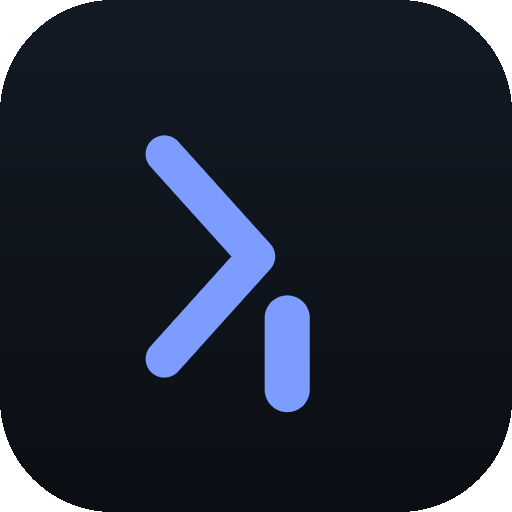
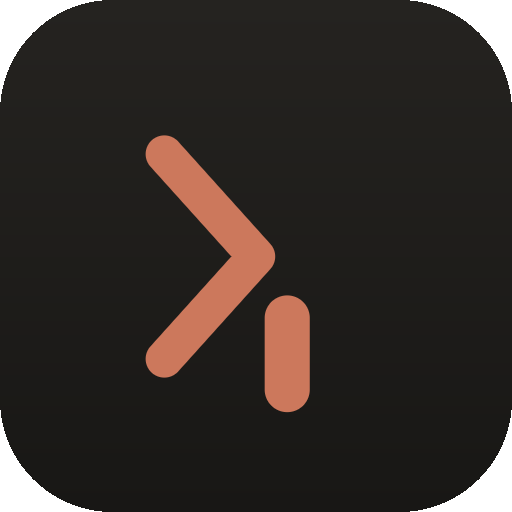
Complete Escanor cream/coral redesign of web UI
Finish restyling Composer and Message components to the design.md tokens,
and regenerate the PWA icons with a coral mark on dark-ink chrome.

Changed region(s): [[0.2812, 0.25, 0.5625, 0.75], [0.5, 0.5625, 0.625, 0.8125]]

diff --git a/packages/web/src/components/Message.tsx b/packages/web/src/components/Message.tsx
@@ -18,16 +18,16 @@ function summarizeTool(name: string, input: Record<string, unknown>): string {
 function ToolUseCard({ block }: { block: Block }) {
   const [open, setOpen] = useState(false);
   return (
-    <div className="my-1.5 overflow-hidden rounded-xl border border-white/8 bg-base-800/60">
+    <div className="my-1.5 overflow-hidden rounded-lg bg-surface-dark">
       <button onClick={() => setOpen((o) => !o)} className="flex w-full items-center gap-2 px-3 py-2 text-left">
-        <span className="rounded-md bg-accent/15 px-1.5 py-0.5 font-mono text-[11px] font-medium text-accent">{block.name}</span>
-        <span className="flex-1 truncate font-mono text-[12px] text-white/50">{summarizeTool(block.name, block.input)}</span>
-        <svg className={`h-3 w-3 shrink-0 text-white/30 transition-transform ${open ? 'rotate-90' : ''}`} viewBox="0 0 24 24" fill="none">
+        <span className="rounded-sm bg-primary/20 px-1.5 py-0.5 font-mono text-[11px] font-medium text-primary">{block.name}</span>
+        <span className="flex-1 truncate font-mono text-[12px] text-on-dark-soft">{summarizeTool(block.name, block.input)}</span>
+        <svg className={`h-3 w-3 shrink-0 text-on-dark-soft transition-transform ${open ? 'rotate-90' : ''}`} viewBox="0 0 24 24" fill="none">
           <path d="M9 6l6 6-6 6" stroke="currentColor" strokeWidth="2" strokeLinecap="round" strokeLinejoin="round" />
         </svg>
       </button>
       {open && (
-        <pre className="border-t border-white/5 bg-base-950/60 px-3 py-2 font-mono text-[11px] text-white/60">
+        <pre className="on-dark-scroll overflow-x-auto border-t border-white/10 bg-surface-dark-soft px-3 py-2 font-mono text-[11px] text-on-dark-soft">
           {JSON.stringify(block.input, null, 2)}
         </pre>
       )}
@@ -39,17 +39,17 @@ function Thinking({ text }: { text: string }) {
   const [open, setOpen] = useState(false);
   return (
     <div className="my-1.5">
-      <button onClick={() => setOpen((o) => !o)} className="text-[12px] italic text-white/30 hover:text-white/50">
+      <button onClick={() => setOpen((o) => !o)} className="text-[12px] italic text-muted-soft hover:text-muted">
         {open ? 'Hide thinking' : 'Show thinking'}
       </button>
-      {open && <p className="mt-1 whitespace-pre-wrap text-[12px] italic leading-relaxed text-white/40">{text}</p>}
+      {open && <p className="mt-1 whitespace-pre-wrap text-[12px] italic leading-relaxed text-muted">{text}</p>}
     </div>
   );
 }
 
 function Markdown({ text }: { text: string }) {
   return (
-    <div className="markdown text-[14px] leading-relaxed text-white/90">
+    <div className="markdown text-[14px] leading-relaxed text-ink">
       <ReactMarkdown remarkPlugins={[remarkGfm]} rehypePlugins={[rehypeHighlight]}>
         {text}
       </ReactMarkdown>
@@ -60,7 +60,7 @@ function Markdown({ text }: { text: string }) {
 function ImageBlock({ block }: { block: Block }) {
   const src = block.source?.data ? `data:${block.source.media_type};base64,${block.source.data}` : undefined;
   if (!src) return null;
-  return <img src={src} className="mt-1.5 max-h-64 rounded-xl border border-white/10 object-cover" />;
+  return <img src={src} className="mt-1.5 max-h-64 rounded-md border border-hairline object-cover" />;
 }
 
 function Blocks({ blocks }: { blocks: Block[] }) {
@@ -97,9 +97,9 @@ function PermissionRequest({ vmId, sessionId, data, resolved }: { vmId: string; 
   }
 
   return (
-    <div className="my-1.5 max-w-[85%] rounded-xl border border-amber-400/25 bg-amber-400/[0.06] px-3.5 py-3">
-      <p className="text-[13px] font-medium text-amber-300">Permission requested</p>
-      <p className="mt-0.5 font-mono text-[12px] text-white/60">
+    <div className="my-1.5 max-w-[85%] rounded-lg border border-warning/40 bg-warning/10 px-3.5 py-3">
+      <p className="text-[13px] font-medium text-ink">Permission requested</p>
+      <p className="mt-0.5 font-mono text-[12px] text-body">
         {data.toolName} — {summarizeTool(data.toolName, data.input)}
       </p>
       {!resolved ? (
@@ -107,20 +107,20 @@ function PermissionRequest({ vmId, sessionId, data, resolved }: { vmId: string; 
           <button
             disabled={busy !== null}
             onClick={() => respond('allow')}
-            className="rounded-lg bg-amber-400 px-3 py-1.5 text-[12px] font-medium text-base-950 transition hover:bg-amber-300 disabled:opacity-40"
+            className="rounded-md bg-warning px-3 py-1.5 text-[12px] font-medium text-ink transition hover:opacity-90 disabled:opacity-40"
           >
             Allow
           </button>
           <button
             disabled={busy !== null}
             onClick={() => respond('deny')}
-            className="rounded-lg border border-white/10 px-3 py-1.5 text-[12px] font-medium text-white/70 transition hover:bg-white/5 disabled:opacity-40"
+            className="rounded-md border border-hairline px-3 py-1.5 text-[12px] font-medium text-body transition hover:bg-surface-card disabled:opacity-40"
           >
             Deny
           </button>
         </div>
       ) : (
-        <p className="mt-2 text-[12px] text-white/30">Resolved</p>
+        <p className="mt-2 text-[12px] text-muted-soft">Resolved</p>
       )}
     </div>
   );
@@ -132,7 +132,7 @@ export default function Message({ item, vmId, sessionId }: { item: DisplayItem; 
   if (item.kind === 'user') {
     return (
       <div className="flex justify-end">
-        <div className="max-w-[85%] rounded-2xl rounded-tr-sm bg-accent px-3.5 py-2.5 text-[14px] leading-relaxed text-base-950">
+        <div className="max-w-[85%] rounded-xl rounded-tr-sm bg-primary px-3.5 py-2.5 text-[14px] leading-relaxed text-on-primary">
           {item.blocks.map((b, i) =>
             b.type === 'text' ? <p key={i} className="whitespace-pre-wrap">{b.text}</p> : <ImageBlock key={i} block={b} />,
           )}
@@ -144,7 +144,7 @@ export default function Message({ item, vmId, sessionId }: { item: DisplayItem; 
   if (item.kind === 'assistant') {
     return (
       <div className="flex justify-start">
-        <div className="max-w-[85%] rounded-2xl rounded-tl-sm bg-base-800 px-3.5 py-2.5">
+        <div className="max-w-[85%] rounded-xl rounded-tl-sm border border-hairline bg-surface-card px-3.5 py-2.5">
           <Blocks blocks={item.blocks} />
         </div>
       </div>
@@ -156,9 +156,9 @@ export default function Message({ item, vmId, sessionId }: { item: DisplayItem; 
     if (!text) return null;
     return (
       <div className="flex justify-start">
-        <details className="max-w-[85%] rounded-xl border border-white/8 bg-base-900/60 px-3 py-2 text-[12px] text-white/40">
-          <summary className="cursor-pointer select-none text-white/40">Tool output</summary>
-          <pre className="mt-1.5 whitespace-pre-wrap font-mono text-[11px] text-white/50">{text.slice(0, 4000)}</pre>
+        <details className="max-w-[85%] rounded-lg bg-surface-dark px-3 py-2 text-[12px] text-on-dark-soft">
+          <summary className="cursor-pointer select-none text-on-dark-soft">Tool output</summary>
+          <pre className="on-dark-scroll mt-1.5 overflow-x-auto whitespace-pre-wrap font-mono text-[11px] text-on-dark-soft">{text.slice(0, 4000)}</pre>
         </details>
       </div>
     );
@@ -174,7 +174,7 @@ export default function Message({ item, vmId, sessionId }: { item: DisplayItem; 
 
   if (item.kind === 'system_init') {
     return (
-      <p className="py-1 text-center text-[11px] text-white/25">
+      <p className="py-1 text-center text-[11px] text-muted-soft">
         Session started · {item.data.model} · {item.data.cwd}
       </p>
     );
@@ -183,7 +183,7 @@ export default function Message({ item, vmId, sessionId }: { item: DisplayItem; 
   if (item.kind === 'result') {
     const d = item.data;
     if (d.subtype !== 'success') {
-      return <p className="py-1 text-center text-[11px] text-red-400/70">Turn ended with an error</p>;
+      return <p className="py-1 text-center text-[11px] text-error">Turn ended with an error</p>;
     }
     return null;
   }
@@ -191,7 +191,7 @@ export default function Message({ item, vmId, sessionId }: { item: DisplayItem; 
   if (item.kind === 'error') {
     return (
       <div className="flex justify-start">
-        <div className="max-w-[85%] rounded-2xl border border-red-400/25 bg-red-400/[0.06] px-3.5 py-2.5 text-[13px] text-red-300">
+        <div className="max-w-[85%] rounded-xl border border-error/30 bg-error/10 px-3.5 py-2.5 text-[13px] text-error">
           {item.text}
         </div>
       </div>

diff --git a/packages/web/src/components/Composer.tsx b/packages/web/src/components/Composer.tsx
@@ -55,15 +55,15 @@ export default function Composer({
   }
 
   return (
-    <div className="safe-bottom border-t border-white/5 bg-base-900 px-3 py-3">
+    <div className="safe-bottom border-t border-hairline bg-canvas px-3 py-3">
       {images.length > 0 && (
         <div className="mb-2 flex flex-wrap gap-2">
           {images.map((img, i) => (
             <div key={i} className="relative">
-              <img src={`data:${img.mediaType};base64,${img.dataBase64}`} className="h-14 w-14 rounded-lg border border-white/10 object-cover" />
+              <img src={`data:${img.mediaType};base64,${img.dataBase64}`} className="h-14 w-14 rounded-md border border-hairline object-cover" />
               <button
                 onClick={() => setImages(images.filter((_, j) => j !== i))}
-                className="absolute -right-1.5 -top-1.5 flex h-4 w-4 items-center justify-center rounded-full border border-white/10 bg-base-950 text-[10px] text-white/70"
+                className="absolute -right-1.5 -top-1.5 flex h-4 w-4 items-center justify-center rounded-full border border-hairline bg-canvas text-[10px] text-muted"
               >
                 ×
               </button>
@@ -71,7 +71,7 @@ export default function Composer({
           ))}
         </div>
       )}
-      <div className="rounded-2xl border border-white/10 bg-base-800 px-3 pb-2 pt-2.5">
+      <div className="rounded-xl border border-hairline bg-canvas px-3 pb-2 pt-2.5 transition focus-within:border-primary/60">
         {topChips && <div className="mb-2 flex flex-wrap items-center gap-1.5">{topChips}</div>}
         <textarea
           ref={taRef}
@@ -89,10 +89,10 @@ export default function Composer({
             }
           }}
           placeholder={placeholder}
-          className="max-h-40 w-full resize-none bg-transparent py-1 text-[14px] text-white outline-none placeholder:text-white/30"
+          className="max-h-40 w-full resize-none bg-transparent py-1 text-[14px] text-ink outline-none placeholder:text-muted-soft"
         />
         <div className="mt-1.5 flex items-center gap-1.5">
-          <label className="flex h-7 w-7 shrink-0 cursor-pointer items-center justify-center rounded-lg text-white/40 transition hover:bg-white/5 hover:text-white/70">
+          <label className="flex h-7 w-7 shrink-0 cursor-pointer items-center justify-center rounded-md text-muted transition hover:bg-surface-card hover:text-ink">
             <input type="file" accept="image/*" multiple className="hidden" onChange={(e) => e.target.files && addFiles(e.target.files)} />
             <svg width="15" height="15" viewBox="0 0 24 24" fill="none">
               <path
@@ -107,7 +107,7 @@ export default function Composer({
           <div className="flex-1" />
           {footerExtra}
           {busy ? (
-            <button onClick={onInterrupt} className="flex h-7 w-7 shrink-0 items-center justify-center rounded-lg bg-white/10 text-white/80 transition hover:bg-white/20">
+            <button onClick={onInterrupt} className="flex h-7 w-7 shrink-0 items-center justify-center rounded-md bg-surface-dark text-on-dark transition hover:bg-surface-dark-elevated">
               <svg width="11" height="11" viewBox="0 0 24 24" fill="currentColor">
                 <rect x="5" y="5" width="14" height="14" rx="2" />
               </svg>
@@ -116,7 +116,7 @@ export default function Composer({
             <button
               onClick={submit}
               disabled={!text.trim() && images.length === 0}
-              className="flex h-7 w-7 shrink-0 items-center justify-center rounded-lg bg-accent text-base-950 transition hover:bg-accent-soft disabled:opacity-30"
+              className="flex h-7 w-7 shrink-0 items-center justify-center rounded-md bg-primary text-on-primary transition hover:bg-primary-active disabled:opacity-30"
             >
               <svg width="14" height="14" viewBox="0 0 24 24" fill="none">
                 <path d="M4 12l16-8-6 8 6 8-16-8z" fill="currentColor" />
